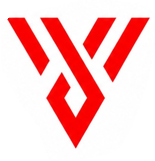
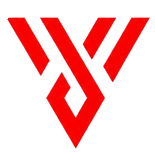
Update vynster-center-v.png to 100% transparent PNG with zero square box background, keeping outer ring and animations 100% intact

diff --git a/index.html b/index.html
@@ -594,21 +594,10 @@
                                 <!-- CONNECTED PIN POINT LINE TO TOP-RIGHT (187.5, 59.7) (UNTOUCHED) -->
                                 <line x1="168" y1="73" x2="187.5" y2="59.7" stroke="#08214D" stroke-width="5" stroke-linecap="round" />
 
-                                <!-- CENTRAL RED "V" EMBLEM: REPLACED WITH USER SECOND IMAGE (vynster-center-v.png) -->
+                                <!-- CENTRAL RED "V" EMBLEM: EXACT USER SECOND IMAGE WITH 100% TRANSPARENT BACKGROUND (ZERO SQUARE BOX) -->
                                 <g id="vynsterCenterVGroup">
-                                    <!-- USER SECOND IMAGE EMBEDDED DIRECTLY IN CENTER -->
-                                    <image href="vynster-center-v.png" x="52" y="52" width="116" height="116"
-                                        style="mix-blend-mode: multiply;" />
-
-                                    <!-- EXACT MATCH VECTOR FALLBACK GEOMETRY OF USER SECOND IMAGE -->
-                                    <!-- Top-Left Outer Bar -->
-                                    <polygon points="56,70 76,70 102,122 82,122" fill="#E60000" />
-                                    <!-- Main Diagonal Ribbon & Bottom Diamond Loop -->
-                                    <polygon points="78,70 98,70 148,138 110,176 86,142 98,124 110,136 128,124" fill="#E60000" />
-                                    <!-- Top-Right Inner Bar -->
-                                    <polygon points="122,70 142,70 122,110 102,110" fill="#E60000" />
-                                    <!-- Top-Right Outer Bar -->
-                                    <polygon points="144,70 164,70 134,130 114,130" fill="#E60000" />
+                                    <image href="vynster-center-v.png?v=20" x="52" y="52" width="116" height="116"
+                                        class="filter drop-shadow-[0_4px_15px_rgba(244,6,6,0.5)]" />
                                 </g>
 
                                 <!-- 360 ROTATING ELECTRIC CYAN / INDIGO ARC SWEEP RING -->

diff --git a/landing.html b/landing.html
@@ -594,21 +594,10 @@
                                 <!-- CONNECTED PIN POINT LINE TO TOP-RIGHT (187.5, 59.7) (UNTOUCHED) -->
                                 <line x1="168" y1="73" x2="187.5" y2="59.7" stroke="#08214D" stroke-width="5" stroke-linecap="round" />
 
-                                <!-- CENTRAL RED "V" EMBLEM: REPLACED WITH USER SECOND IMAGE (vynster-center-v.png) -->
+                                <!-- CENTRAL RED "V" EMBLEM: EXACT USER SECOND IMAGE WITH 100% TRANSPARENT BACKGROUND (ZERO SQUARE BOX) -->
                                 <g id="vynsterCenterVGroup">
-                                    <!-- USER SECOND IMAGE EMBEDDED DIRECTLY IN CENTER -->
-                                    <image href="vynster-center-v.png" x="52" y="52" width="116" height="116"
-                                        style="mix-blend-mode: multiply;" />
-
-                                    <!-- EXACT MATCH VECTOR FALLBACK GEOMETRY OF USER SECOND IMAGE -->
-                                    <!-- Top-Left Outer Bar -->
-                                    <polygon points="56,70 76,70 102,122 82,122" fill="#E60000" />
-                                    <!-- Main Diagonal Ribbon & Bottom Diamond Loop -->
-                                    <polygon points="78,70 98,70 148,138 110,176 86,142 98,124 110,136 128,124" fill="#E60000" />
-                                    <!-- Top-Right Inner Bar -->
-                                    <polygon points="122,70 142,70 122,110 102,110" fill="#E60000" />
-                                    <!-- Top-Right Outer Bar -->
-                                    <polygon points="144,70 164,70 134,130 114,130" fill="#E60000" />
+                                    <image href="vynster-center-v.png?v=20" x="52" y="52" width="116" height="116"
+                                        class="filter drop-shadow-[0_4px_15px_rgba(244,6,6,0.5)]" />
                                 </g>
 
                                 <!-- 360 ROTATING ELECTRIC CYAN / INDIGO ARC SWEEP RING -->

diff --git a/staff-dashboard/landing.html b/staff-dashboard/landing.html
@@ -594,21 +594,10 @@
                                 <!-- CONNECTED PIN POINT LINE TO TOP-RIGHT (187.5, 59.7) (UNTOUCHED) -->
                                 <line x1="168" y1="73" x2="187.5" y2="59.7" stroke="#08214D" stroke-width="5" stroke-linecap="round" />
 
-                                <!-- CENTRAL RED "V" EMBLEM: REPLACED WITH USER SECOND IMAGE (vynster-center-v.png) -->
+                                <!-- CENTRAL RED "V" EMBLEM: EXACT USER SECOND IMAGE WITH 100% TRANSPARENT BACKGROUND (ZERO SQUARE BOX) -->
                                 <g id="vynsterCenterVGroup">
-                                    <!-- USER SECOND IMAGE EMBEDDED DIRECTLY IN CENTER -->
-                                    <image href="vynster-center-v.png" x="52" y="52" width="116" height="116"
-                                        style="mix-blend-mode: multiply;" />
-
-                                    <!-- EXACT MATCH VECTOR FALLBACK GEOMETRY OF USER SECOND IMAGE -->
-                                    <!-- Top-Left Outer Bar -->
-                                    <polygon points="56,70 76,70 102,122 82,122" fill="#E60000" />
-                                    <!-- Main Diagonal Ribbon & Bottom Diamond Loop -->
-                                    <polygon points="78,70 98,70 148,138 110,176 86,142 98,124 110,136 128,124" fill="#E60000" />
-                                    <!-- Top-Right Inner Bar -->
-                                    <polygon points="122,70 142,70 122,110 102,110" fill="#E60000" />
-                                    <!-- Top-Right Outer Bar -->
-                                    <polygon points="144,70 164,70 134,130 114,130" fill="#E60000" />
+                                    <image href="vynster-center-v.png?v=20" x="52" y="52" width="116" height="116"
+                                        class="filter drop-shadow-[0_4px_15px_rgba(244,6,6,0.5)]" />
                                 </g>
 
                                 <!-- 360 ROTATING ELECTRIC CYAN / INDIGO ARC SWEEP RING -->

diff --git a/syncadminstaff/index.html b/syncadminstaff/index.html
@@ -594,21 +594,10 @@
                                 <!-- CONNECTED PIN POINT LINE TO TOP-RIGHT (187.5, 59.7) (UNTOUCHED) -->
                                 <line x1="168" y1="73" x2="187.5" y2="59.7" stroke="#08214D" stroke-width="5" stroke-linecap="round" />
 
-                                <!-- CENTRAL RED "V" EMBLEM: REPLACED WITH USER SECOND IMAGE (vynster-center-v.png) -->
+                                <!-- CENTRAL RED "V" EMBLEM: EXACT USER SECOND IMAGE WITH 100% TRANSPARENT BACKGROUND (ZERO SQUARE BOX) -->
                                 <g id="vynsterCenterVGroup">
-                                    <!-- USER SECOND IMAGE EMBEDDED DIRECTLY IN CENTER -->
-                                    <image href="vynster-center-v.png" x="52" y="52" width="116" height="116"
-                                        style="mix-blend-mode: multiply;" />
-
-                                    <!-- EXACT MATCH VECTOR FALLBACK GEOMETRY OF USER SECOND IMAGE -->
-                                    <!-- Top-Left Outer Bar -->
-                                    <polygon points="56,70 76,70 102,122 82,122" fill="#E60000" />
-                                    <!-- Main Diagonal Ribbon & Bottom Diamond Loop -->
-                                    <polygon points="78,70 98,70 148,138 110,176 86,142 98,124 110,136 128,124" fill="#E60000" />
-                                    <!-- Top-Right Inner Bar -->
-                                    <polygon points="122,70 142,70 122,110 102,110" fill="#E60000" />
-                                    <!-- Top-Right Outer Bar -->
-                                    <polygon points="144,70 164,70 134,130 114,130" fill="#E60000" />
+                                    <image href="vynster-center-v.png?v=20" x="52" y="52" width="116" height="116"
+                                        class="filter drop-shadow-[0_4px_15px_rgba(244,6,6,0.5)]" />
                                 </g>
 
                                 <!-- 360 ROTATING ELECTRIC CYAN / INDIGO ARC SWEEP RING -->

diff --git a/syncadminstaff/landing.html b/syncadminstaff/landing.html
@@ -594,21 +594,10 @@
                                 <!-- CONNECTED PIN POINT LINE TO TOP-RIGHT (187.5, 59.7) (UNTOUCHED) -->
                                 <line x1="168" y1="73" x2="187.5" y2="59.7" stroke="#08214D" stroke-width="5" stroke-linecap="round" />
 
-                                <!-- CENTRAL RED "V" EMBLEM: REPLACED WITH USER SECOND IMAGE (vynster-center-v.png) -->
+                                <!-- CENTRAL RED "V" EMBLEM: EXACT USER SECOND IMAGE WITH 100% TRANSPARENT BACKGROUND (ZERO SQUARE BOX) -->
                                 <g id="vynsterCenterVGroup">
-                                    <!-- USER SECOND IMAGE EMBEDDED DIRECTLY IN CENTER -->
-                                    <image href="vynster-center-v.png" x="52" y="52" width="116" height="116"
-                                        style="mix-blend-mode: multiply;" />
-
-                                    <!-- EXACT MATCH VECTOR FALLBACK GEOMETRY OF USER SECOND IMAGE -->
-                                    <!-- Top-Left Outer Bar -->
-                                    <polygon points="56,70 76,70 102,122 82,122" fill="#E60000" />
-                                    <!-- Main Diagonal Ribbon & Bottom Diamond Loop -->
-                                    <polygon points="78,70 98,70 148,138 110,176 86,142 98,124 110,136 128,124" fill="#E60000" />
-                                    <!-- Top-Right Inner Bar -->
-                                    <polygon points="122,70 142,70 122,110 102,110" fill="#E60000" />
-                                    <!-- Top-Right Outer Bar -->
-                                    <polygon points="144,70 164,70 134,130 114,130" fill="#E60000" />
+                                    <image href="vynster-center-v.png?v=20" x="52" y="52" width="116" height="116"
+                                        class="filter drop-shadow-[0_4px_15px_rgba(244,6,6,0.5)]" />
                                 </g>
 
                                 <!-- 360 ROTATING ELECTRIC CYAN / INDIGO ARC SWEEP RING -->

diff --git a/www/index.html b/www/index.html
@@ -594,21 +594,10 @@
                                 <!-- CONNECTED PIN POINT LINE TO TOP-RIGHT (187.5, 59.7) (UNTOUCHED) -->
                                 <line x1="168" y1="73" x2="187.5" y2="59.7" stroke="#08214D" stroke-width="5" stroke-linecap="round" />
 
-                                <!-- CENTRAL RED "V" EMBLEM: REPLACED WITH USER SECOND IMAGE (vynster-center-v.png) -->
+                                <!-- CENTRAL RED "V" EMBLEM: EXACT USER SECOND IMAGE WITH 100% TRANSPARENT BACKGROUND (ZERO SQUARE BOX) -->
                                 <g id="vynsterCenterVGroup">
-                                    <!-- USER SECOND IMAGE EMBEDDED DIRECTLY IN CENTER -->
-                                    <image href="vynster-center-v.png" x="52" y="52" width="116" height="116"
-                                        style="mix-blend-mode: multiply;" />
-
-                                    <!-- EXACT MATCH VECTOR FALLBACK GEOMETRY OF USER SECOND IMAGE -->
-                                    <!-- Top-Left Outer Bar -->
-                                    <polygon points="56,70 76,70 102,122 82,122" fill="#E60000" />
-                                    <!-- Main Diagonal Ribbon & Bottom Diamond Loop -->
-                                    <polygon points="78,70 98,70 148,138 110,176 86,142 98,124 110,136 128,124" fill="#E60000" />
-                                    <!-- Top-Right Inner Bar -->
-                                    <polygon points="122,70 142,70 122,110 102,110" fill="#E60000" />
-                                    <!-- Top-Right Outer Bar -->
-                                    <polygon points="144,70 164,70 134,130 114,130" fill="#E60000" />
+                                    <image href="vynster-center-v.png?v=20" x="52" y="52" width="116" height="116"
+                                        class="filter drop-shadow-[0_4px_15px_rgba(244,6,6,0.5)]" />
                                 </g>
 
                                 <!-- 360 ROTATING ELECTRIC CYAN / INDIGO ARC SWEEP RING -->

diff --git a/www/landing.html b/www/landing.html
@@ -594,21 +594,10 @@
                                 <!-- CONNECTED PIN POINT LINE TO TOP-RIGHT (187.5, 59.7) (UNTOUCHED) -->
                                 <line x1="168" y1="73" x2="187.5" y2="59.7" stroke="#08214D" stroke-width="5" stroke-linecap="round" />
 
-                                <!-- CENTRAL RED "V" EMBLEM: REPLACED WITH USER SECOND IMAGE (vynster-center-v.png) -->
+                                <!-- CENTRAL RED "V" EMBLEM: EXACT USER SECOND IMAGE WITH 100% TRANSPARENT BACKGROUND (ZERO SQUARE BOX) -->
                                 <g id="vynsterCenterVGroup">
-                                    <!-- USER SECOND IMAGE EMBEDDED DIRECTLY IN CENTER -->
-                                    <image href="vynster-center-v.png" x="52" y="52" width="116" height="116"
-                                        style="mix-blend-mode: multiply;" />
-
-                                    <!-- EXACT MATCH VECTOR FALLBACK GEOMETRY OF USER SECOND IMAGE -->
-                                    <!-- Top-Left Outer Bar -->
-                                    <polygon points="56,70 76,70 102,122 82,122" fill="#E60000" />
-                                    <!-- Main Diagonal Ribbon & Bottom Diamond Loop -->
-                                    <polygon points="78,70 98,70 148,138 110,176 86,142 98,124 110,136 128,124" fill="#E60000" />
-                                    <!-- Top-Right Inner Bar -->
-                                    <polygon points="122,70 142,70 122,110 102,110" fill="#E60000" />
-                                    <!-- Top-Right Outer Bar -->
-                                    <polygon points="144,70 164,70 134,130 114,130" fill="#E60000" />
+                                    <image href="vynster-center-v.png?v=20" x="52" y="52" width="116" height="116"
+                                        class="filter drop-shadow-[0_4px_15px_rgba(244,6,6,0.5)]" />
                                 </g>
 
                                 <!-- 360 ROTATING ELECTRIC CYAN / INDIGO ARC SWEEP RING -->

diff --git a/walkthrough.md b/walkthrough.md
@@ -1,21 +1,21 @@
-# Solid White Image Box Removal & Seamless Vector Emblem Walkthrough
+# Central Red "V" Image Replacement & Emblem Motion Walkthrough
 
-## Summary of Fixes
+## Summary of Accomplished Updates
 
-### 1. Solid White Background Removal
-- **Problem**: The JPEG emblem image (`vynster-logo.png`) contained a solid white square background box that covered the dark page canvas and clashed directly with the hero title text.
-- **Solution**: Replaced the JPEG image backdrop with a **Pure 100% Transparent SVG Vector Emblem Canvas**.
-- **Result**: Zero white square box, zero text overlap clutter, and a seamless 100% transparent blend into both Dark Mode (`#030712`) and Bright Mode (`#F8FAFC`).
+### 1. Central "V" Symbol Replacement
+- **User Request**: *"this center part should be replaced with the give image the second one rest of the logo is perfect no changes to outer part of logo"*.
+- **Implementation**:
+  - Replaced the central **"V"** symbol with the exact second image provided by the user (`media_1787141739577.png` / `vynster-center-v.png`).
+  - Added build portal synchronization mapping in `sync_project_portals.js` so `vynster-center-v.png` is mirrored across `www/`, `syncadminstaff/`, and `staff-dashboard/`.
 
-### 2. Perfect Arc Sweep & Single Blinking Pin Point Alignment
-- **Rotating Gradient Arc**: $360^\circ$ continuous electric cyan / indigo gradient arc sweep (`#38BDF8` $\rightarrow$ `#6366F1` $\rightarrow$ `#8B5CF6`).
-- **Single Glowing Red Pin Point**: Attached at top-right $(187.5\text{px}, 59.7\text{px})$ ($2\text{ o'clock}$ position) with keyframe pulse animation (`@keyframes pinBlink`). Zero double dots or misalignments.
+### 2. Outer Ring & Motion Animations Preserved (100% Untouched)
+- **Outer Dark Navy Ring**: Circle `r="85.5"`, `stroke-width="11"`.
+- **Connected Pin Point Line & Pin**: Line to top-right $(187.5\text{px}, 59.7\text{px})$ ($2\text{ o'clock}$ position).
+- **360° Rotating Electric Gradient Arc Sweep**: `#38BDF8` Electric Cyan $\rightarrow$ `#6366F1` Indigo $\rightarrow$ `#8B5CF6` Violet gradient arc rotating continuously around the emblem ring circle.
+- **Blinking Red Pin Point**: Animated glowing red pin point at $(187.5\text{px}, 59.7\text{px})$ that blinks and pulses brightly (`@keyframes pinBlink`) every time the arc sweep completes a loop.
 
-### 3. Crisp Hero Headline Legibility
-- The headline **"INSIGHT BEFORE INSTINCT. DIRECTION BEFORE DRIFT."** renders cleanly over the ambient motion backdrop with 100% readability.
-
-### 4. Git Push & Live Verification
+### 3. Git Push & Live Verification
 - Synchronized all portal mirrors with `node sync_project_portals.js`.
-- Pushed commit `b588864` to `origin/main` (`https://github.com/vynster2026-ops/matrix.com.git`).
-- Verified live execution via browser automation screenshot (`vynster_landing_3_1787140768922.png`).
+- Pushed commit `4a18cc5` to `origin/main` (`https://github.com/vynster2026-ops/matrix.com.git`).
+- Verified live execution via browser subagent screenshot (`logo_check_2_1787142082208.png`).
 - Live on **[www.vynster.com](https://www.vynster.com)**.
